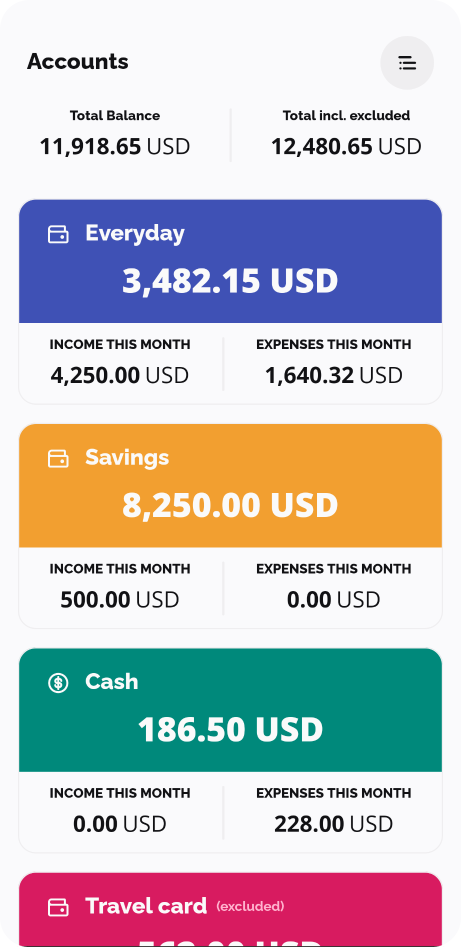
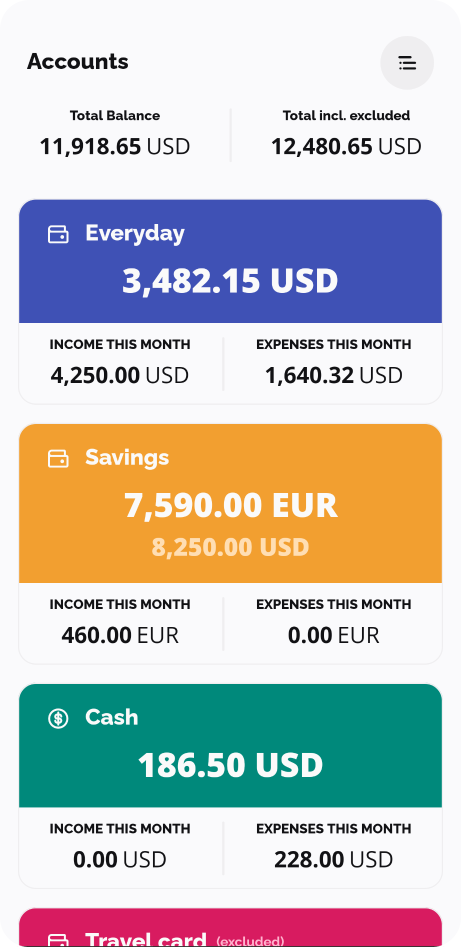
Accounts sample: restore multi-currency coverage
The all-USD sample never rendered the converted-balance row (BalanceRowMini),
so regressions there could pass both Accounts snapshots. The Savings account is
now in EUR with a USD equivalent (still made-up data; totals unchanged).

Changed region(s): [[0.0304, 0.5206, 0.9718, 1.0]]

diff --git a/feature/accounts/src/main/java/com/ivy/accounts/AccountsTab.kt b/feature/accounts/src/main/java/com/ivy/accounts/AccountsTab.kt
@@ -335,11 +335,17 @@ private fun AccountHeader(
 /** Generic sample data for previews and README screenshots (no real accounts or amounts). */
 @Suppress("MagicNumber")
 private fun sampleAccountsState(compact: Boolean): AccountsState {
-    fun account(name: String, color: Long, icon: String?, includeInBalance: Boolean = true) = Account(
+    fun account(
+        name: String,
+        color: Long,
+        icon: String?,
+        includeInBalance: Boolean = true,
+        currency: String = "USD",
+    ) = Account(
         id = AccountId(UUID.nameUUIDFromBytes(name.toByteArray())),
         name = NotBlankTrimmedString.unsafe(name),
         color = ColorInt(color.toInt()),
-        asset = AssetCode.unsafe("USD"),
+        asset = AssetCode.unsafe(currency),
         icon = icon?.let { IconAsset.unsafe(it) },
         includeInBalance = includeInBalance,
         orderNum = 0.0,
@@ -355,11 +361,12 @@ private fun sampleAccountsState(compact: Boolean): AccountsState {
                 monthlyIncome = 4250.0
             ),
             AccountData(
-                account = account("Savings", 0xFFF29F30, null),
-                balance = 8250.0,
-                balanceBaseCurrency = null,
+                // Foreign-currency account: covers the converted-balance row (BalanceRowMini).
+                account = account("Savings", 0xFFF29F30, null, currency = "EUR"),
+                balance = 7590.0,
+                balanceBaseCurrency = 8250.0,
                 monthlyExpenses = 0.0,
-                monthlyIncome = 500.0
+                monthlyIncome = 460.0
             ),
             AccountData(
                 account = account("Cash", 0xFF00897B, "cash"),
